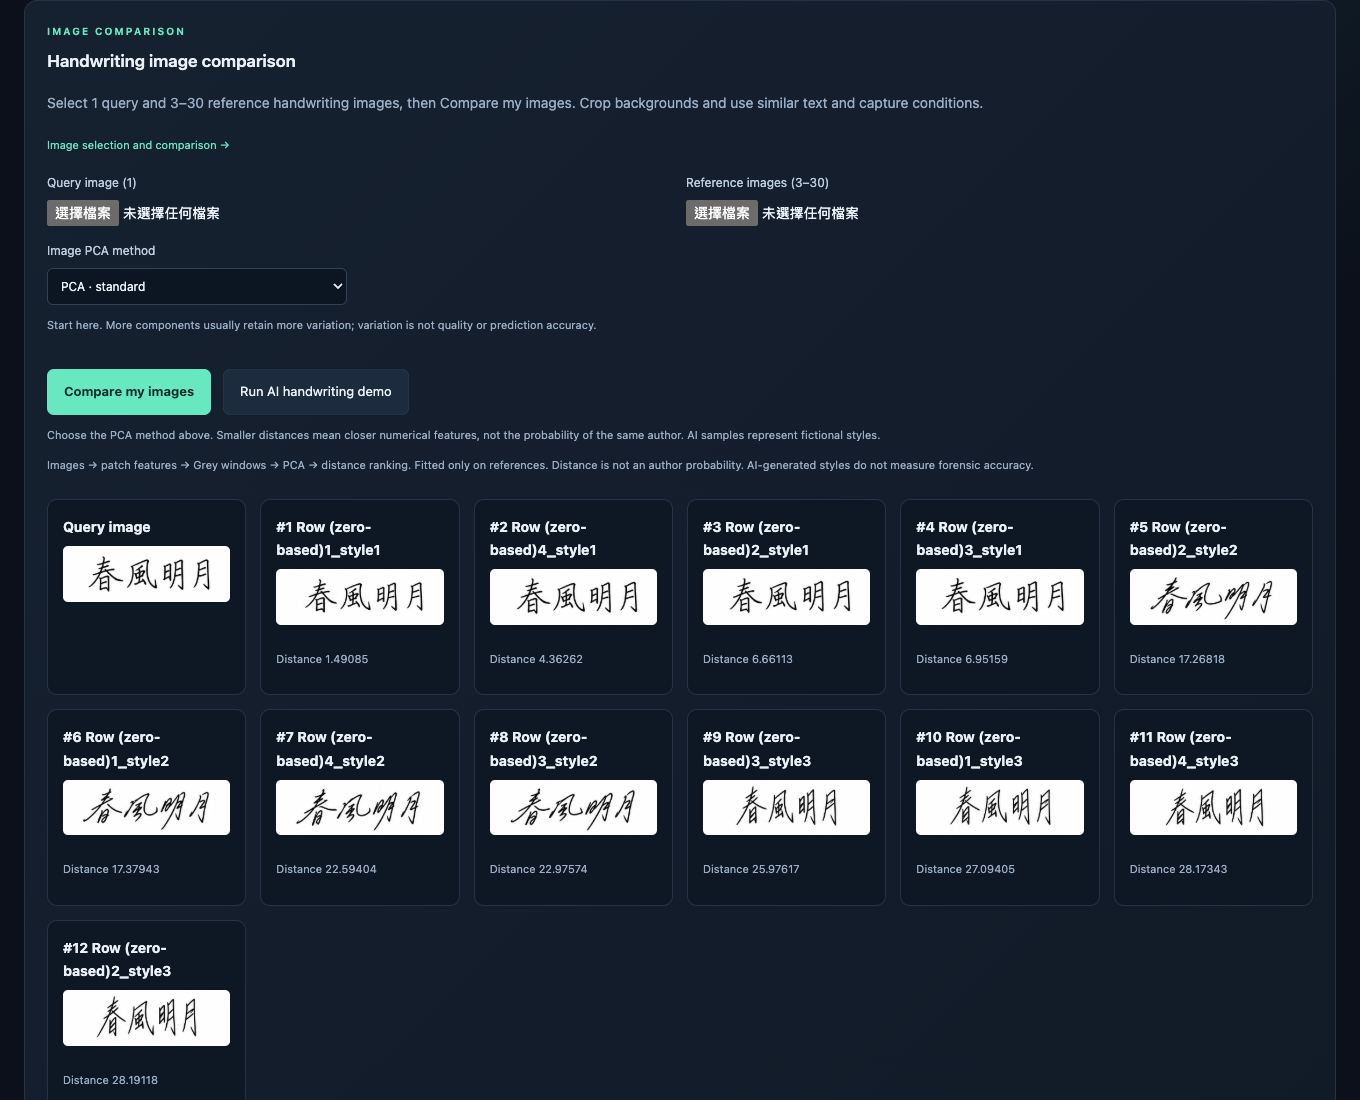
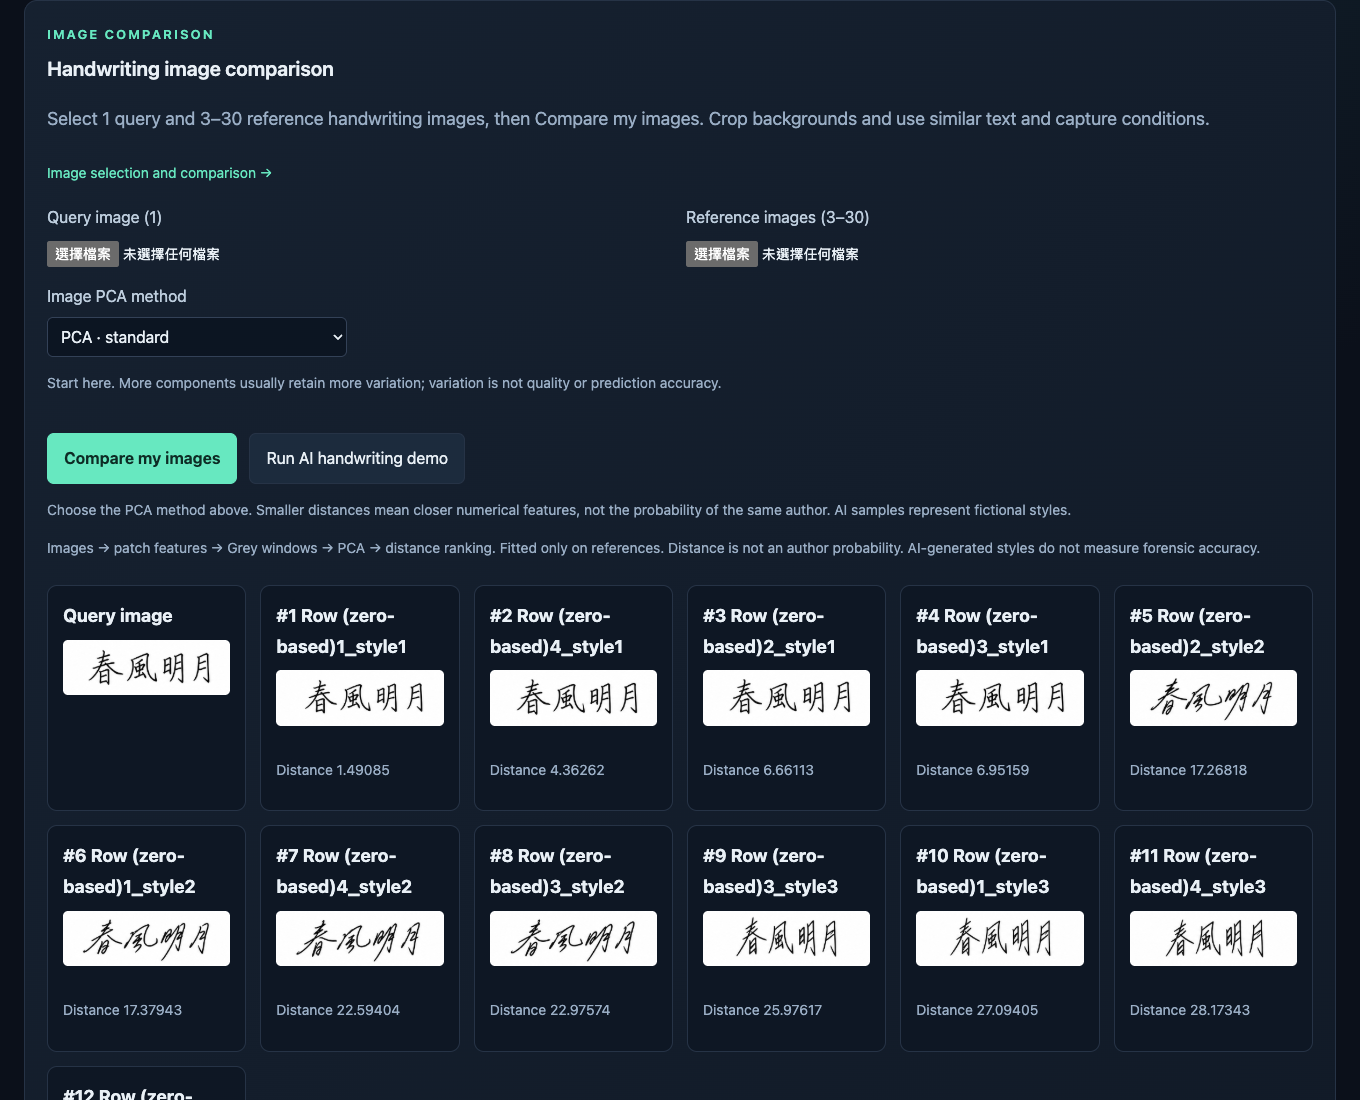
Increase workbench text sizes and refresh localized screenshots

Changed region(s): [[0.0309, 0.0, 0.9574, 1.0], [0.4941, 0.1545, 0.6485, 0.2473]]

diff --git a/examples/workbench/static/style.css b/examples/workbench/static/style.css
@@ -1,17 +1,20 @@
-:root{color-scheme:dark;--bg:#0b101a;--panel:#121b29;--line:#263346;--muted:#9aaec5;--text:#e9f0f6;--mint:#67e8c0;--blue:#7ab8ff;--amber:#f3bc72}*{box-sizing:border-box}body{margin:0;background:radial-gradient(ellipse at 85% 0,#18313d 0,transparent 38%),var(--bg);font:14px/1.65 system-ui,-apple-system,"Noto Sans TC",sans-serif;color:var(--text)}header{height:82px;border-bottom:1px solid var(--line);display:flex;align-items:center;justify-content:space-between;padding:0 max(24px,calc((100vw - 1440px)/2));gap:15px}.brand{display:flex;gap:12px;align-items:center;font-size:27px;color:var(--mint);text-decoration:none}.brand span{font-size:21px;font-weight:650;color:var(--text)}.brand small{font-size:9px;letter-spacing:2px;display:block;color:var(--muted)}.local{color:var(--muted);font-size:12px}.local i{display:inline-block;background:var(--mint);width:6px;height:6px;border-radius:50%;margin-right:8px;box-shadow:0 0 14px var(--mint)}main{max-width:1440px;margin:auto;padding:0 24px}.intro{display:flex;align-items:center;justify-content:space-between;padding:42px 0 30px;gap:24px}.eyebrow,.section-no{color:var(--mint);font-size:10px;font-weight:650;letter-spacing:2px}h1{font-size:clamp(28px,3.2vw,43px);line-height:1.4;letter-spacing:-1px;margin:12px 0}h2{font-size:17px;margin:7px 0 16px;font-weight:600}p{color:var(--muted)}.orb{width:285px;opacity:.8;text-align:center}.orb svg{width:100%;height:125px;overflow:visible}.orb path{fill:none;stroke:var(--mint);stroke-width:1.2;stroke-dasharray:450;stroke-dashoffset:450;animation:draw 2s ease-out forwards;filter:drop-shadow(0 0 6px #67e8c0)}.orb span{color:var(--muted);font-size:10px;letter-spacing:4px}nav{display:flex;gap:8px;align-items:center;border-bottom:1px solid var(--line);padding-bottom:14px}nav a{font-size:12px;color:var(--muted);margin-left:auto;text-decoration:none}nav a+a{margin-left:12px}button,input,select{font:inherit}button{cursor:pointer;transition:background .2s,transform .2s;white-space:nowrap}button:hover:not(:disabled){transform:translateY(-1px)}button:disabled{opacity:.45;cursor:wait}button:focus-visible,a:focus-visible,input:focus-visible,select:focus-visible{outline:2px solid var(--mint);outline-offset:3px}.tab{background:transparent;border:0;border-radius:6px;color:var(--muted);padding:10px 16px}.tab.active{background:#203b3b;color:var(--mint)}#status{min-height:46px;padding:12px 0;color:var(--muted);font-size:12px}#status.error{color:#ffb9a7}#status.busy{color:var(--mint)}.workspace{display:grid;grid-template-columns:280px minmax(0,1fr);gap:20px;align-items:start}.panel{background:linear-gradient(135deg,#162130,#111a27);border:1px solid var(--line);border-radius:13px;padding:22px;min-width:0}.controls{position:sticky;top:18px}.results{display:grid;gap:18px}.pair{display:grid;grid-template-columns:1fr 1fr;gap:12px}label{display:block;color:#bdcddd;font-size:12px;margin:15px 0 7px}input[type=number],select{width:100%;background:#0c1522;color:var(--text);border:1px solid #334157;border-radius:6px;padding:9px;min-width:0}select{font-size:12px}.primary,.secondary{border-radius:7px;padding:11px 16px;border:1px solid var(--line);font-size:13px}.primary{background:var(--mint);color:#0d2c25;border-color:var(--mint);font-weight:650}.secondary{background:#1c2b3d;color:var(--text)}.controls>.secondary,.controls>.primary{width:100%;margin-top:15px}.primary span{float:right}.small{padding:6px 11px;font-size:11px}.upload{border:1px dashed #3a526b;padding:12px;border-radius:7px;text-align:center;color:var(--mint)}.upload input{display:block;width:100%;font-size:10px;margin-top:8px}.hint{font-size:11px;line-height:1.7;color:var(--muted)}hr{border:0;border-top:1px solid var(--line);margin:24px 0}.check{display:flex;gap:8px;align-items:center}.check input{accent-color:var(--mint)}details{margin-top:18px}summary{cursor:pointer;color:#c4d6e5;font-size:12px}summary span{float:right;color:var(--muted)}#features{max-height:235px;overflow:auto}#features label{margin:7px 0;overflow-wrap:anywhere}.text-button{background:none;border:none;color:var(--mint);font-size:11px;padding:8px 10px 4px 0}.select-actions{display:flex}.overview h2{font-size:23px;margin:4px 0}.overview p{font-size:12px}.stats{display:grid;grid-template-columns:repeat(3,1fr);gap:12px;border-top:1px solid var(--line);padding-top:20px;margin-top:18px}.stats strong{display:block;font-size:28px;line-height:1.3;color:var(--mint);font-weight:500;font-variant-numeric:tabular-nums}.stats span{color:var(--muted);font-size:10px}.chart-grid{display:grid;grid-template-columns:1fr 1fr;gap:18px}.chart-head{display:flex;align-items:center;justify-content:space-between;gap:12px}.legend{color:var(--muted);font-size:10px}.chart{min-height:235px}.chart svg{display:block;width:100%;height:auto;overflow:visible}.chart text{font-family:inherit;font-size:10px;fill:var(--muted)}.chart .axis{stroke:#304157;stroke-width:1}.chart path.signal{fill:none;stroke-width:1;opacity:.5}.chart .mean{fill:none;stroke:#effaff;stroke-width:1.8}.chart circle{stroke:#0c1826;stroke-width:2;animation:appear .7s ease backwards;cursor:help}.placeholder{display:flex;align-items:center;justify-content:center;font-size:12px;color:var(--muted);padding:20px}.ranking{min-height:235px;max-height:340px;overflow:auto}.rank-row{display:grid;grid-template-columns:20px 1fr 45px;gap:9px;align-items:center;margin:12px 0;font-size:11px}.rank-no{color:var(--muted)}.rank-name{display:block;overflow-wrap:anywhere}.rank-bar{height:5px;background:#203447;border-radius:6px;margin-top:6px;overflow:hidden}.rank-bar i{display:block;height:100%;background:linear-gradient(90deg,#4a8cc8,var(--mint));transform-origin:left;animation:bar .7s ease backwards}.rank-score{text-align:right;color:var(--mint);font-variant-numeric:tabular-nums}.table-wrap{overflow:auto;max-height:270px}table{width:100%;border-collapse:collapse;font-size:11px;white-space:nowrap}th,td{text-align:right;border-bottom:1px solid #233145;padding:9px 12px}th{position:sticky;top:0;background:#172536;color:var(--muted);font-weight:500}th:first-child,td:first-child{text-align:left}.map{display:flex;gap:8px;flex-wrap:wrap;margin:10px 0}.map-cell{border-radius:4px;padding:8px;text-align:center;font-size:10px;color:#ebf7ff;background:#213d50}.image-grid{display:grid;grid-template-columns:repeat(auto-fill,minmax(190px,1fr));gap:14px;margin-top:25px}.image-card{background:#0e1724;border:1px solid var(--line);border-radius:10px;padding:15px;animation:appear .4s ease}.image-card img{width:100%;background:white;border-radius:5px;margin:8px 0}.image-card p{font-size:11px;overflow-wrap:anywhere}.actions{display:flex;gap:12px;margin-top:24px}footer{display:flex;justify-content:space-between;color:#7e94ad;font-size:11px;padding:35px 0}footer span{color:var(--muted)}[hidden]{display:none!important}@keyframes draw{to{stroke-dashoffset:0}}@keyframes bar{from{transform:scaleX(0)}}@keyframes appear{from{opacity:0;transform:translateY(8px)}to{opacity:1;transform:translateY(0)}}@media(max-width:1050px){.chart-grid{grid-template-columns:1fr}.workspace{grid-template-columns:250px minmax(0,1fr)}}@media(max-width:720px){header{padding:0 20px}.local{display:none}.orb{display:none}.workspace{grid-template-columns:1fr}.controls{position:static}.intro{padding:25px 0}main{padding:0 14px}.panel{padding:18px}nav{flex-wrap:wrap}nav a{margin-left:12px}.chart-head{flex-wrap:wrap}.pair{gap:8px}.actions{flex-wrap:wrap}footer span{display:none}}@media(prefers-reduced-motion:reduce){*,*:before,*:after{animation:none!important;transition:none!important}.orb path{stroke-dashoffset:0}}
+:root{color-scheme:dark;--bg:#0b101a;--panel:#121b29;--line:#263346;--muted:#9aaec5;--text:#e9f0f6;--mint:#67e8c0;--blue:#7ab8ff;--amber:#f3bc72}*{box-sizing:border-box}body{margin:0;background:radial-gradient(ellipse at 85% 0,#18313d 0,transparent 38%),var(--bg);font:18px/1.7 system-ui,-apple-system,"Noto Sans TC",sans-serif;color:var(--text)}header{min-height:92px;height:auto;border-bottom:1px solid var(--line);display:flex;align-items:center;justify-content:space-between;padding:12px max(24px,calc((100vw - 1440px)/2));gap:15px}.brand{display:flex;gap:12px;align-items:center;font-size:29px;color:var(--mint);text-decoration:none}.brand span{font-size:23px;font-weight:650;color:var(--text)}.brand small{font-size:12px;letter-spacing:2px;display:block;color:var(--muted)}.local{color:var(--muted);font-size:16px}.local i{display:inline-block;background:var(--mint);width:6px;height:6px;border-radius:50%;margin-right:8px;box-shadow:0 0 14px var(--mint)}main{max-width:1440px;margin:auto;padding:0 24px}.intro{display:flex;align-items:center;justify-content:space-between;padding:42px 0 30px;gap:24px}.eyebrow,.section-no{color:var(--mint);font-size:13px;font-weight:650;letter-spacing:2px}h1{font-size:clamp(28px,3.2vw,43px);line-height:1.4;letter-spacing:-1px;margin:12px 0}h2{font-size:20px;margin:7px 0 16px;font-weight:600}p{color:var(--muted)}.orb{width:285px;opacity:.8;text-align:center}.orb svg{width:100%;height:125px;overflow:visible}.orb path{fill:none;stroke:var(--mint);stroke-width:1.2;stroke-dasharray:450;stroke-dashoffset:450;animation:draw 2s ease-out forwards;filter:drop-shadow(0 0 6px #67e8c0)}.orb span{color:var(--muted);font-size:13px;letter-spacing:4px}nav{display:flex;flex-wrap:wrap;gap:8px;align-items:center;border-bottom:1px solid var(--line);padding-bottom:14px}nav a{font-size:16px;color:var(--muted);margin-left:auto;text-decoration:none}nav a+a{margin-left:12px}button,input,select{font:inherit}button{cursor:pointer;transition:background .2s,transform .2s;white-space:nowrap}button:hover:not(:disabled){transform:translateY(-1px)}button:disabled{opacity:.45;cursor:wait}button:focus-visible,a:focus-visible,input:focus-visible,select:focus-visible{outline:2px solid var(--mint);outline-offset:3px}.tab{background:transparent;border:0;border-radius:6px;color:var(--muted);padding:10px 16px}.tab.active{background:#203b3b;color:var(--mint)}#status{min-height:46px;padding:12px 0;color:var(--muted);font-size:16px}#status.error{color:#ffb9a7}#status.busy{color:var(--mint)}.workspace{display:grid;grid-template-columns:320px minmax(0,1fr);gap:20px;align-items:start}.panel{background:linear-gradient(135deg,#162130,#111a27);border:1px solid var(--line);border-radius:13px;padding:22px;min-width:0}.controls{position:sticky;top:18px}.results{display:grid;gap:18px}.pair{display:grid;grid-template-columns:1fr 1fr;gap:12px}label{display:block;color:#bdcddd;font-size:16px;margin:15px 0 7px}input[type=number],select{width:100%;background:#0c1522;color:var(--text);border:1px solid #334157;border-radius:6px;padding:9px;min-width:0}select{font-size:16px}.primary,.secondary{border-radius:7px;padding:11px 16px;border:1px solid var(--line);font-size:16px}.primary{background:var(--mint);color:#0d2c25;border-color:var(--mint);font-weight:650}.secondary{background:#1c2b3d;color:var(--text)}.controls>.secondary,.controls>.primary{width:100%;margin-top:15px}.primary span{float:right}.small{padding:6px 11px;font-size:14px}.upload{border:1px dashed #3a526b;padding:12px;border-radius:7px;text-align:center;color:var(--mint)}.upload input{display:block;width:100%;font-size:13px;margin-top:8px}.hint{font-size:14px;line-height:1.7;color:var(--muted)}hr{border:0;border-top:1px solid var(--line);margin:24px 0}.check{display:flex;gap:8px;align-items:center}.check input{accent-color:var(--mint)}details{margin-top:18px}summary{cursor:pointer;color:#c4d6e5;font-size:16px}summary span{float:right;color:var(--muted)}#features{max-height:235px;overflow:auto}#features label{margin:7px 0;overflow-wrap:anywhere}.text-button{background:none;border:none;color:var(--mint);font-size:14px;padding:8px 10px 4px 0}.select-actions{display:flex}.overview h2{font-size:26px;margin:4px 0}.overview p{font-size:16px}.stats{display:grid;grid-template-columns:repeat(3,1fr);gap:12px;border-top:1px solid var(--line);padding-top:20px;margin-top:18px}.stats strong{display:block;font-size:32px;line-height:1.3;color:var(--mint);font-weight:500;font-variant-numeric:tabular-nums}.stats span{color:var(--muted);font-size:13px}.chart-grid{display:grid;grid-template-columns:1fr 1fr;gap:18px}.chart-head{display:flex;flex-wrap:wrap;align-items:center;justify-content:space-between;gap:12px}.legend{color:var(--muted);font-size:13px}.chart{min-height:235px}.chart svg{display:block;width:100%;height:auto;overflow:visible}.chart text{font-family:inherit;font-size:14px;fill:var(--muted)}.chart .axis{stroke:#304157;stroke-width:1}.chart path.signal{fill:none;stroke-width:1;opacity:.5}.chart .mean{fill:none;stroke:#effaff;stroke-width:1.8}.chart circle{stroke:#0c1826;stroke-width:2;animation:appear .7s ease backwards;cursor:help}.placeholder{display:flex;align-items:center;justify-content:center;font-size:16px;color:var(--muted);padding:20px}.ranking{min-height:235px;max-height:340px;overflow:auto}.rank-row{display:grid;grid-template-columns:20px 1fr 45px;gap:9px;align-items:center;margin:12px 0;font-size:14px}.rank-no{color:var(--muted)}.rank-name{display:block;overflow-wrap:anywhere}.rank-bar{height:5px;background:#203447;border-radius:6px;margin-top:6px;overflow:hidden}.rank-bar i{display:block;height:100%;background:linear-gradient(90deg,#4a8cc8,var(--mint));transform-origin:left;animation:bar .7s ease backwards}.rank-score{text-align:right;color:var(--mint);font-variant-numeric:tabular-nums}.table-wrap{overflow:auto;max-height:270px}table{width:100%;border-collapse:collapse;font-size:14px;white-space:nowrap}th,td{text-align:right;border-bottom:1px solid #233145;padding:9px 12px}th{position:sticky;top:0;background:#172536;color:var(--muted);font-weight:500}th:first-child,td:first-child{text-align:left}.map{display:flex;gap:8px;flex-wrap:wrap;margin:10px 0}.map-cell{border-radius:4px;padding:8px;text-align:center;font-size:13px;color:#ebf7ff;background:#213d50}.image-grid{display:grid;grid-template-columns:repeat(auto-fill,minmax(190px,1fr));gap:14px;margin-top:25px}.image-card{background:#0e1724;border:1px solid var(--line);border-radius:10px;padding:15px;animation:appear .4s ease}.image-card img{width:100%;background:white;border-radius:5px;margin:8px 0}.image-card p{font-size:14px;overflow-wrap:anywhere}.actions{display:flex;gap:12px;margin-top:24px}footer{display:flex;justify-content:space-between;color:#7e94ad;font-size:14px;padding:35px 0}footer span{color:var(--muted)}[hidden]{display:none!important}@keyframes draw{to{stroke-dashoffset:0}}@keyframes bar{from{transform:scaleX(0)}}@keyframes appear{from{opacity:0;transform:translateY(8px)}to{opacity:1;transform:translateY(0)}}@media(max-width:1050px){.chart-grid{grid-template-columns:1fr}.workspace{grid-template-columns:290px minmax(0,1fr)}}@media(max-width:720px){header{padding:0 20px}.local{display:none}.orb{display:none}.workspace{grid-template-columns:1fr}.controls{position:static}.intro{padding:25px 0}main{padding:0 14px}.panel{padding:18px}nav{flex-wrap:wrap}nav a{margin-left:12px}.chart-head{flex-wrap:wrap}.pair{gap:8px}.actions{flex-wrap:wrap}footer span{display:none}}@media(prefers-reduced-motion:reduce){*,*:before,*:after{animation:none!important;transition:none!important}.orb path{stroke-dashoffset:0}}
 
-.rank-select{align-items:center;gap:8px;margin-top:14px}.rank-select label{margin:0;white-space:nowrap}.rank-select input{width:58px;padding:6px}.rank-select button{font-size:10px}#imageMethod{max-width:300px}
-.parameter{margin-bottom:12px}.param-hint{margin:5px 0 0;font-size:10px}.parameter-grid{display:grid;grid-template-columns:repeat(auto-fit,minmax(180px,1fr));gap:0 18px}.notice{font-size:12px;color:#dfcaab;background:#2a2830;border-left:3px solid var(--amber);padding:12px 15px;border-radius:4px;line-height:1.8;margin:16px 0}.notice:empty{display:none}.quality-row{border:1px solid var(--line);border-radius:7px;padding:10px;margin:12px 0;display:grid;grid-template-columns:1fr 1fr;gap:6px}.quality-row strong{grid-column:1/-1;font-size:11px;overflow-wrap:anywhere}.quality-row label{margin:0;font-size:10px}.quality-row input{padding:6px;font-size:11px}.data-link{display:block;color:var(--mint);font-size:12px;margin-top:15px}#seriesInput{width:100%;min-height:95px;background:#0c1522;color:var(--text);border:1px solid var(--line);border-radius:5px;padding:9px}.scenario-diagram svg{display:block;width:100%;height:auto;min-height:220px}.scenario-diagram text{fill:#b1c5d7;font:11px system-ui}.route-path{stroke-dasharray:2500;animation:routeDraw 1.4s ease both}.catalog-row{border-bottom:1px solid var(--line);padding:8px 0}.catalog-row strong{font-size:12px}.catalog-row p{margin:4px 0}#scenarioTables{display:grid;gap:18px}@keyframes routeDraw{from{stroke-dashoffset:2500}to{stroke-dashoffset:0}}
+.rank-select{align-items:center;gap:8px;margin-top:14px}.rank-select label{margin:0;white-space:nowrap}.rank-select input{width:58px;padding:6px}.rank-select button{font-size:13px}#imageMethod{max-width:300px}
+.parameter{margin-bottom:12px}.param-hint{margin:5px 0 0;font-size:13px}.parameter-grid{display:grid;grid-template-columns:repeat(auto-fit,minmax(180px,1fr));gap:0 18px}.notice{font-size:16px;color:#dfcaab;background:#2a2830;border-left:3px solid var(--amber);padding:12px 15px;border-radius:4px;line-height:1.8;margin:16px 0}.notice:empty{display:none}.quality-row{border:1px solid var(--line);border-radius:7px;padding:10px;margin:12px 0;display:grid;grid-template-columns:1fr 1fr;gap:6px}.quality-row strong{grid-column:1/-1;font-size:14px;overflow-wrap:anywhere}.quality-row label{margin:0;font-size:14px}.quality-row input{padding:6px;font-size:14px}.data-link{display:block;color:var(--mint);font-size:16px;margin-top:15px}#seriesInput{font:inherit;width:100%;min-height:95px;background:#0c1522;color:var(--text);border:1px solid var(--line);border-radius:5px;padding:9px}.scenario-diagram svg{display:block;width:100%;height:auto;min-height:220px}.scenario-diagram text{fill:#b1c5d7;font:12px system-ui}.route-path{stroke-dasharray:2500;animation:routeDraw 1.4s ease both}.catalog-row{border-bottom:1px solid var(--line);padding:8px 0}.catalog-row strong{font-size:16px}.catalog-row p{margin:4px 0}#scenarioTables{display:grid;gap:18px}@keyframes routeDraw{from{stroke-dashoffset:2500}to{stroke-dashoffset:0}}
 
-.header-actions{display:flex;gap:10px;align-items:center}.header-actions button{font-size:12px}#manualDialog{width:min(1120px,94vw);max-height:88vh;padding:0;border:1px solid #3b5269;border-radius:13px;color:var(--text);background:var(--bg)}#manualDialog::backdrop{background:#030811bf}.manual-header{display:flex;justify-content:space-between;align-items:center;gap:15px;padding:16px 24px;border-bottom:1px solid var(--line)}.manual-header h2{margin:0}.manual-body{display:grid;grid-template-columns:225px minmax(0,1fr);height:70vh;overflow:hidden}.manual-nav{display:flex;flex-direction:column;align-items:stretch;gap:3px;overflow:auto;padding:16px;border-right:1px solid var(--line);border-bottom:0}.manual-nav a,.manual-nav a+a{margin:0;padding:7px 9px;color:var(--muted);font-size:12px;border-radius:5px}.manual-nav a:hover{background:var(--panel);color:var(--mint)}.manual-body article{overflow:auto;padding:0 26px 30px;scroll-padding-top:18px}.manual-body section{padding:12px 0 20px;border-bottom:1px solid var(--line)}.manual-body h3{color:var(--mint);margin:12px 0}.manual-body p,.manual-body li{font-size:13px;color:#bdcddd}.manual-body li{margin:9px 0}.manual-body code{overflow-wrap:anywhere;color:#d6e9f6;background:#1c2b3d;border-radius:4px;padding:2px 4px}.manual-body table{white-space:normal}.manual-body td,.manual-body th{text-align:left;font-size:12px;vertical-align:top}.manual-body td:first-child{min-width:135px}.manual-body section:focus{outline:0}.manual-body section:focus h3{text-decoration:underline;text-underline-offset:5px}@media(max-width:720px){header{height:auto;min-height:82px;flex-wrap:wrap;gap:10px;padding:14px 20px}.manual-body{grid-template-columns:1fr;height:73vh}.manual-nav{max-height:145px;border-right:0;border-bottom:1px solid var(--line);flex-direction:row;flex-wrap:wrap;padding:8px}.manual-nav a{font-size:11px;padding:4px 7px}.manual-body article{padding:0 16px 24px}.manual-header{padding:12px 16px}.header-actions{gap:6px}}
+.header-actions{display:flex;flex-wrap:wrap;gap:10px;align-items:center}.header-actions button{font-size:16px}#manualDialog{width:min(1120px,94vw);max-height:88vh;padding:0;border:1px solid #3b5269;border-radius:13px;color:var(--text);background:var(--bg)}#manualDialog::backdrop{background:#030811bf}.manual-header{display:flex;justify-content:space-between;align-items:center;gap:15px;padding:16px 24px;border-bottom:1px solid var(--line)}.manual-header h2{margin:0}.manual-body{display:grid;grid-template-columns:225px minmax(0,1fr);height:70vh;overflow:hidden}.manual-nav{display:flex;flex-direction:column;align-items:stretch;gap:3px;overflow:auto;padding:16px;border-right:1px solid var(--line);border-bottom:0}.manual-nav a,.manual-nav a+a{margin:0;padding:7px 9px;color:var(--muted);font-size:16px;border-radius:5px}.manual-nav a:hover{background:var(--panel);color:var(--mint)}.manual-body article{overflow:auto;padding:0 26px 30px;scroll-padding-top:18px}.manual-body section{padding:12px 0 20px;border-bottom:1px solid var(--line)}.manual-body h3{color:var(--mint);margin:12px 0}.manual-body p,.manual-body li{font-size:16px;color:#bdcddd}.manual-body li{margin:9px 0}.manual-body code{overflow-wrap:anywhere;color:#d6e9f6;background:#1c2b3d;border-radius:4px;padding:2px 4px}.manual-body table{white-space:normal}.manual-body td,.manual-body th{text-align:left;font-size:16px;vertical-align:top}.manual-body td:first-child{min-width:135px}.manual-body section:focus{outline:0}.manual-body section:focus h3{text-decoration:underline;text-underline-offset:5px}@media(max-width:720px){header{height:auto;min-height:82px;flex-wrap:wrap;gap:10px;padding:14px 20px}.manual-body{grid-template-columns:1fr;height:73vh}.manual-nav{max-height:145px;border-right:0;border-bottom:1px solid var(--line);flex-direction:row;flex-wrap:wrap;padding:8px}.manual-nav a{font-size:14px;padding:4px 7px}.manual-body article{padding:0 16px 24px}.manual-header{padding:12px 16px}.header-actions{gap:6px}}
 
-.unavailable-file{margin:12px 0;padding:10px;border:1px solid var(--line);border-radius:6px}.unavailable-file strong{font-size:11px;color:var(--amber);overflow-wrap:anywhere}.unavailable-file p{margin:6px 0 0}
+.unavailable-file{margin:12px 0;padding:10px;border:1px solid var(--line);border-radius:6px}.unavailable-file strong{font-size:14px;color:var(--amber);overflow-wrap:anywhere}.unavailable-file p{margin:6px 0 0}
 /* Language switching is available in the same local window. */
 #language{width:auto;min-width:112px;max-width:150px;padding:6px 9px}
 @media(max-width:700px){header{height:auto;min-height:82px;flex-wrap:wrap;padding-top:12px;padding-bottom:12px}.header-actions{flex-wrap:wrap}}
 
-.art-image-pair{display:grid;grid-template-columns:1fr 1fr;gap:18px}.art-image-pair figure{margin:0;min-width:0}.art-image-pair figcaption{font-size:12px;color:var(--muted);margin:8px 0}.art-image-frame{position:relative}.art-image-frame img{display:block;width:100%;height:auto;border-radius:6px}.art-image-frame svg{position:absolute;inset:0;width:100%;height:100%}.art-image-frame svg[hidden]{display:none}@media(max-width:700px){.art-image-pair{grid-template-columns:1fr}}
+.art-image-pair{display:grid;grid-template-columns:1fr 1fr;gap:18px}.art-image-pair figure{margin:0;min-width:0}.art-image-pair figcaption{font-size:16px;color:var(--muted);margin:8px 0}.art-image-frame{position:relative}.art-image-frame img{display:block;width:100%;height:auto;border-radius:6px}.art-image-frame svg{position:absolute;inset:0;width:100%;height:100%}.art-image-frame svg[hidden]{display:none}@media(max-width:700px){.art-image-pair{grid-template-columns:1fr}}
 
 .expert-review-link{display:inline-block;margin-left:20px;color:var(--mint)}
 
 .optimization-tabs{display:flex;gap:.5rem;flex-wrap:wrap;margin:1rem 0}.optimization-tabs .active{background:#214a43;border-color:#67e8c0;color:#86f5d4}#optimizationPlot svg{width:100%;max-height:420px}.optimization-bar{animation:optimization-grow .45s ease-out;transform-origin:170px center}.optimization-dot{animation:optimization-appear .3s ease-out}@keyframes optimization-grow{from{transform:scaleX(0)}to{transform:scaleX(1)}}@keyframes optimization-appear{from{opacity:0}to{opacity:1}}@media(prefers-reduced-motion:reduce){.optimization-bar,.optimization-dot{animation:none}}
+
+/* Native file inputs must shrink with the larger type on narrow screens. */
+.pair>*{min-width:0}input[type=file]{width:100%;min-width:0;font-size:14px}
